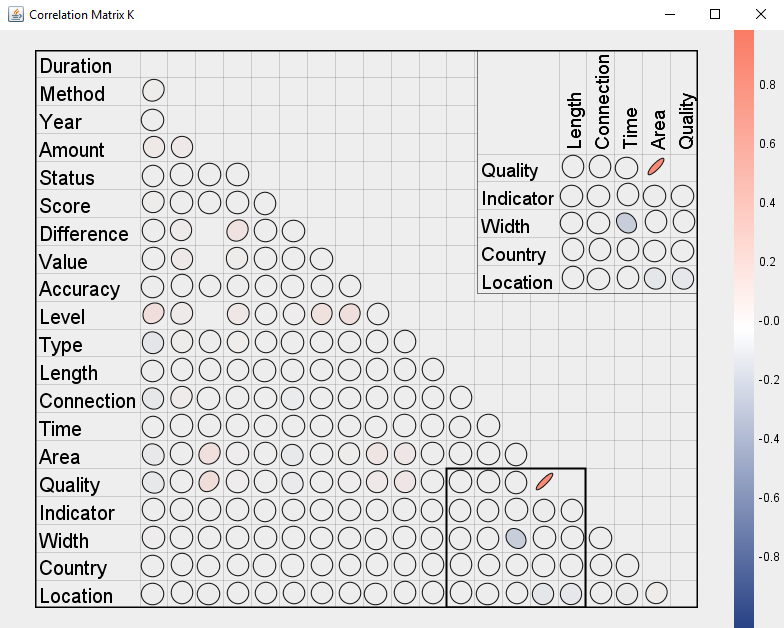
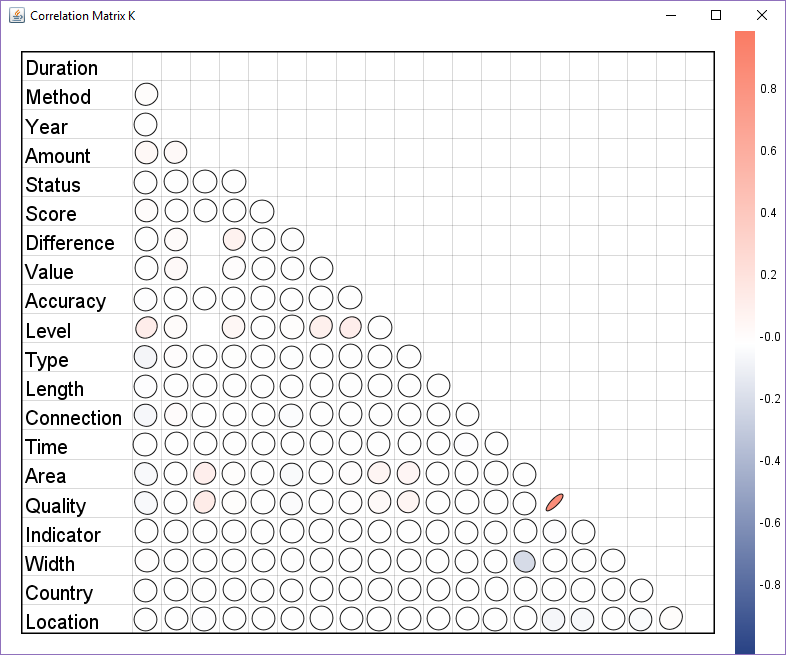
Updated readme.

diff --git a/src/main/java/com/earnix/eo/gui/correlation/Example.java b/src/main/java/com/earnix/eo/gui/correlation/Example.java
@@ -2,6 +2,7 @@ package com.earnix.eo.gui.correlation;
 
 
 import javax.swing.*;
+import java.awt.*;
 import java.util.Arrays;
 import java.util.List;
 
@@ -118,7 +119,7 @@ public class Example
 		);
 
 		CorrelationMatrix matrix = new CorrelationMatrix(rowsTypes, rowsTitles, correlations, correlationsSqr);
-
+		matrix.setBackground(Color.WHITE);
 		frame.getContentPane().add(matrix);
 		frame.setDefaultCloseOperation(WindowConstants.EXIT_ON_CLOSE);
 		frame.setVisible(true);

diff --git a/README.md b/README.md
@@ -7,7 +7,7 @@ A correlation matrix is a table showing correlation coefficients between variabl
 
 Component anti-aliasing is explicitly enabled.
 
-![screenshot](/screen.png)
+<p align="center"><img src="/screen.png"></img></p>
 
 ## Getting Started
 
